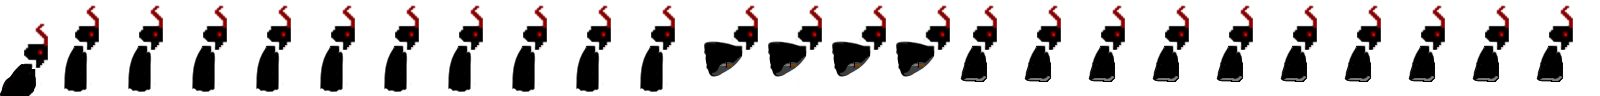
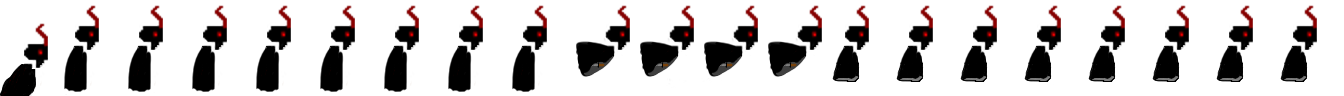
fix

diff --git a/TE4TwoDSidescroller/Player.cs b/TE4TwoDSidescroller/Player.cs
@@ -152,14 +152,14 @@ namespace TE4TwoDSidescroller
             idle.FramePerSecond = 5;
             animations.Add("idle", idle);
 
-            Animation jump = new Animation(playerJump, 25);
+            Animation jump = new Animation(playerJump, 21);
             jump.isLooping = true;
-            jump.FramePerSecond = 10;
+            jump.FramePerSecond = 15;
             animations.Add("jump", jump);
 
-            Animation flipJump = new Animation(playerJump, 25);
+            Animation flipJump = new Animation(playerJump, 21);
             flipJump.isLooping = true;
-            flipJump.FramePerSecond = 10;
+            flipJump.FramePerSecond = 15;
             flipJump.spriteEffects = SpriteEffects.FlipHorizontally;
             animations.Add("flipJump", flipJump);
 
